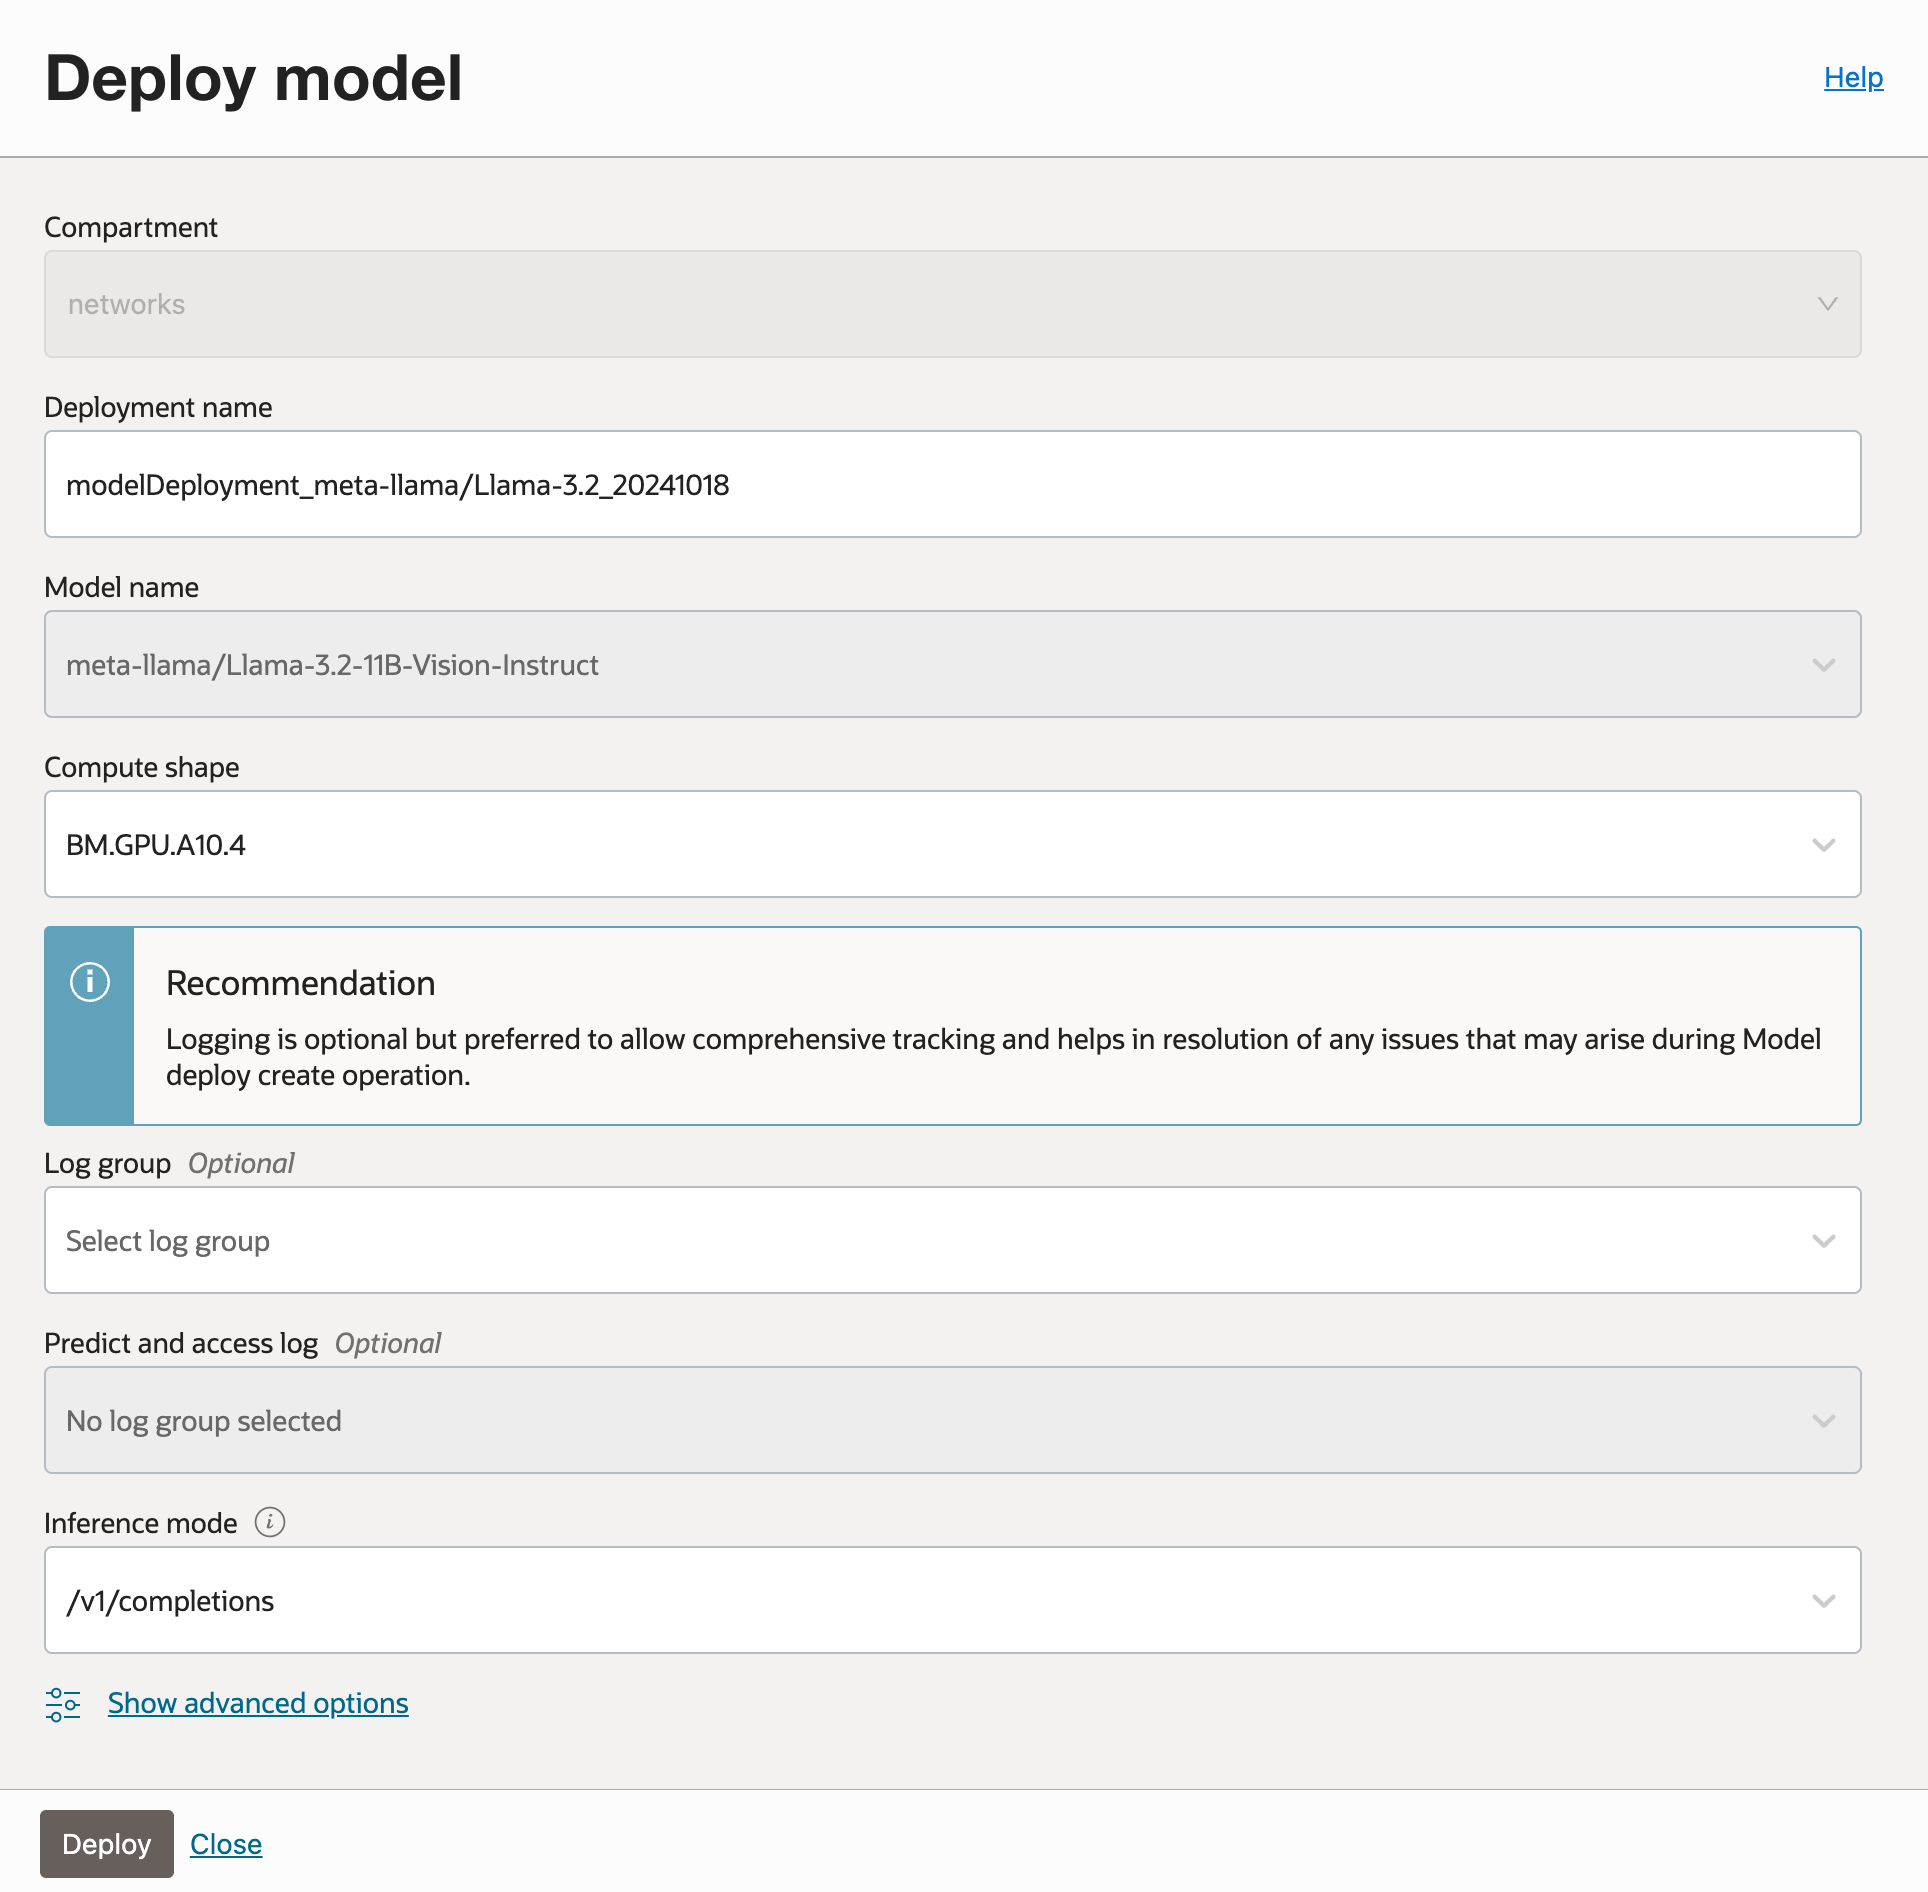
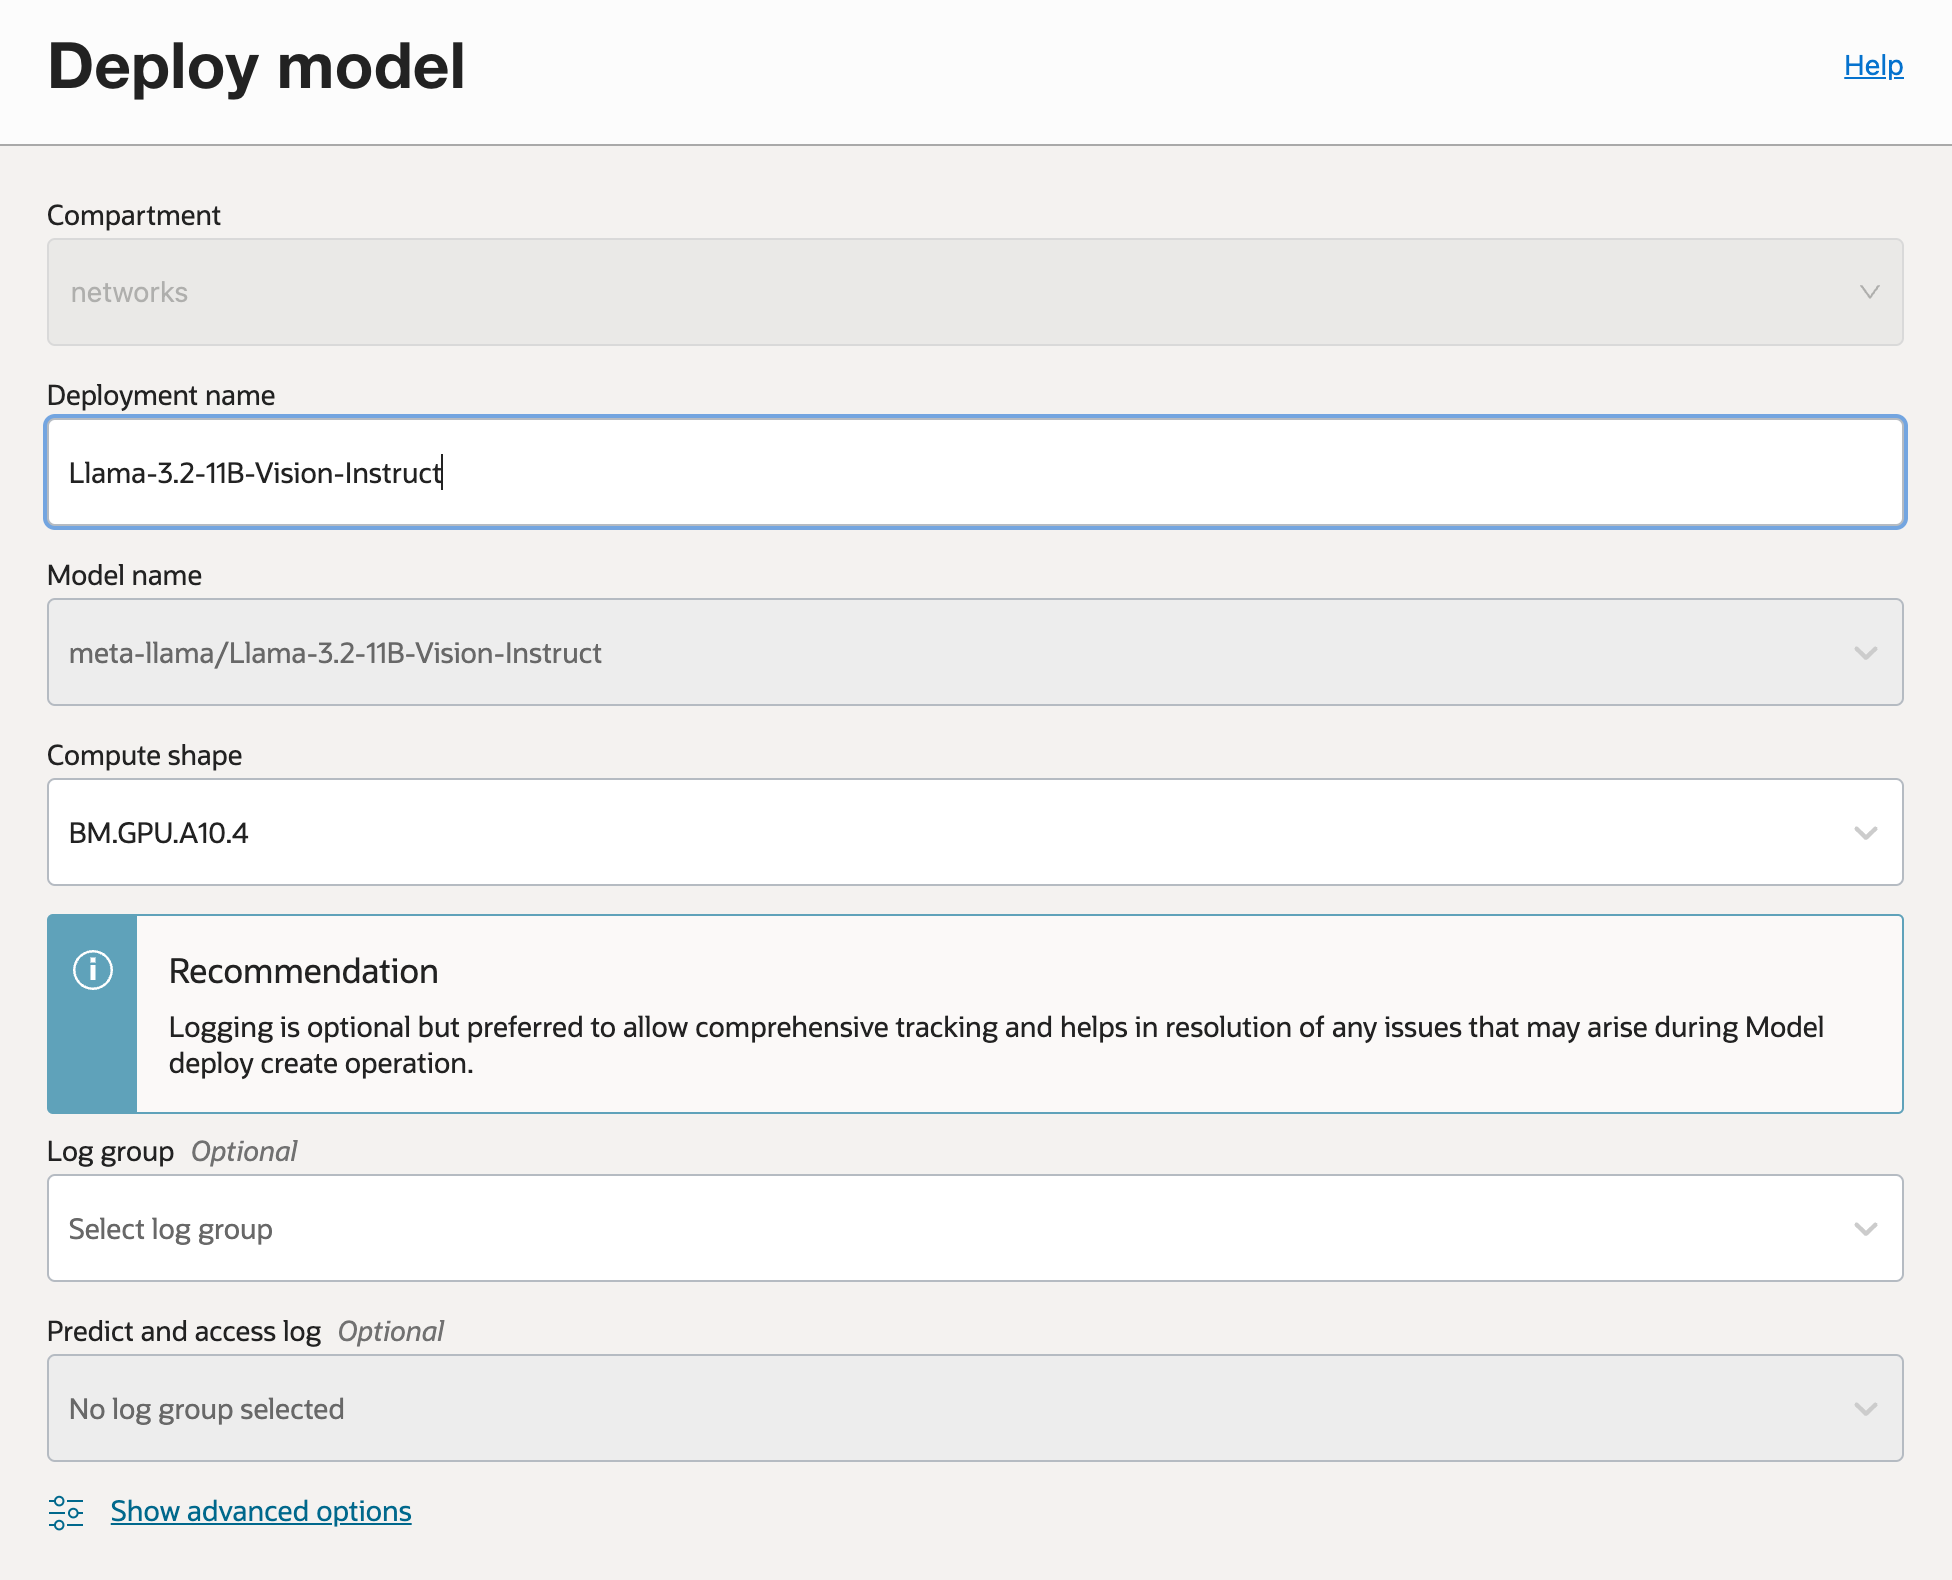
Update AQUA model deployment tips to reflect new UI change on "Advanced Options".

diff --git a/ai-quick-actions/model-deployment-tips.md b/ai-quick-actions/model-deployment-tips.md
@@ -20,12 +20,14 @@ replacement for applications using OpenAI API. Model deployments are a managed r
 the OCI Data Science service. For more details about Model Deployment and managing it through 
 the OCI console please see the [OCI docs](https://docs.oracle.com/en-us/iaas/data-science/using/model-dep-about.htm).
 
-### Deploying an LLM
+## Deploying an LLM
 
 After picking a model from the model explorer, if the "Deploy Model" is enabled you can use this
 form to quickly deploy the model:
 
 ![Deploy Model](web_assets/deploy-model.png)
+
+### Compute Shape
 
 The compute shape selection is critical, the list available is selected to be suitable for the 
 chosen model.
@@ -40,16 +42,13 @@ For a full list of shapes and their definitions see the [compute shape docs](htt
 The relationship between model parameter size and GPU memory is roughly 2x parameter count in GB, so for example a model that has 7B parameters will need a minimum of 14 GB for inference. At runtime the
 memory is used for both holding the weights, along with the concurrent contexts for the user's requests.
 
-The "inference mode" allows you to choose between the default completion endpoint(`/v1/completions`) and the chat endpoint (`/v1/chat/completions`).
-* The default completion endpoint is designed for text completion tasks. It’s suitable for generating text based on a given prompt.
-* The chat endpoint is tailored for chatbot-like interactions. It allows for more dynamic and interactive conversations by using a list of messages with roles (system, user, assistant). This is ideal for applications requiring back-and-forth dialogue, maintaining context over multiple turns. It is recommended that you deploy chat models (e.g. `meta-llama/Llama-3.1-8B-Instruct`) using the chat endpoint.
+### Advanced Options
 
-Once deployed, the model will spin up and become available after some time, then you're able to try out the model 
-from the deployments tab using the test model, or programmatically.
+You may click on the "Show Advanced Options" to configure options for "inference container" and "inference mode".
 
-![Try Model](web_assets/try-model.png)
+![Advanced Options](web_assets/deploy-model-advanced-options.png)
 
-### Advanced Deployment Options
+### Inference Container Configuration
 
 The service allows for model deployment configuration to be overridden when creating a model deployment. Depending on 
 the type of inference container used for deployment, i.e. vLLM or TGI, the parameters vary and need to be passed with the format 
@@ -58,12 +57,24 @@ the type of inference container used for deployment, i.e. vLLM or TGI, the param
 For more details, please visit [vLLM](https://docs.vllm.ai/en/latest/serving/openai_compatible_server.html#command-line-arguments-for-the-server) or 
 [TGI](https://huggingface.co/docs/text-generation-inference/en/basic_tutorials/launcher) documentation to know more about the parameters accepted by the respective containers. 
 
-![Model Deployment Parameters](web_assets/model-deployment-params.png)
+### Inference Mode
+
+The "inference mode" allows you to choose between the default completion endpoint(`/v1/completions`) and the chat endpoint (`/v1/chat/completions`).
+* The default completion endpoint is designed for text completion tasks. It’s suitable for generating text based on a given prompt.
+* The chat endpoint is tailored for chatbot-like interactions. It allows for more dynamic and interactive conversations by using a list of messages with roles (system, user, assistant). This is ideal for applications requiring back-and-forth dialogue, maintaining context over multiple turns. It is recommended that you deploy chat models (e.g. `meta-llama/Llama-3.1-8B-Instruct`) using the chat endpoint.
 
 
-### Inferencing Model
+### Test Your Model
 
-#### Using oci-cli
+Once deployed, the model will spin up and become available after some time, then you're able to try out the model 
+from the deployments tab using the test model, or programmatically.
+
+![Try Model](web_assets/try-model.png)
+
+
+## Inferencing Model
+
+### Using oci-cli
 
 ```bash
 oci raw-request --http-method POST --target-uri <model_deployment_url>/predict --request-body '{
@@ -78,7 +89,7 @@ oci raw-request --http-method POST --target-uri <model_deployment_url>/predict -
 Note: Currently `oci-cli` does not support streaming response, use Python or Java SDK instead.
 
 
-#### Using Python SDK (without streaming)
+### Using Python SDK (without streaming)
 
 ```python
 # The OCI SDK must be installed for this example to function properly.
@@ -120,7 +131,7 @@ res = requests.post(endpoint, json=body, auth=auth, headers={}).json()
 print(res)
 ```
 
-#### Using Python SDK (with streaming)
+### Using Python SDK (with streaming)
 
 To consume streaming Server-sent Events (SSE), install [sseclient-py](https://pypi.org/project/sseclient-py/) using `pip install sseclient-py`.
 
@@ -176,7 +187,7 @@ for event in client.events():
 #        print(line)
 ```
 
-#### Using Java (with streaming)
+### Using Java (with streaming)
 
 ```java
 /**
@@ -305,7 +316,7 @@ public class RestExample {
 ```
 
 
-### Troubleshooting
+## Troubleshooting
 
 If the model should fail to deploy, reasons might include lack of GPU availability, or policy permissions.
 
